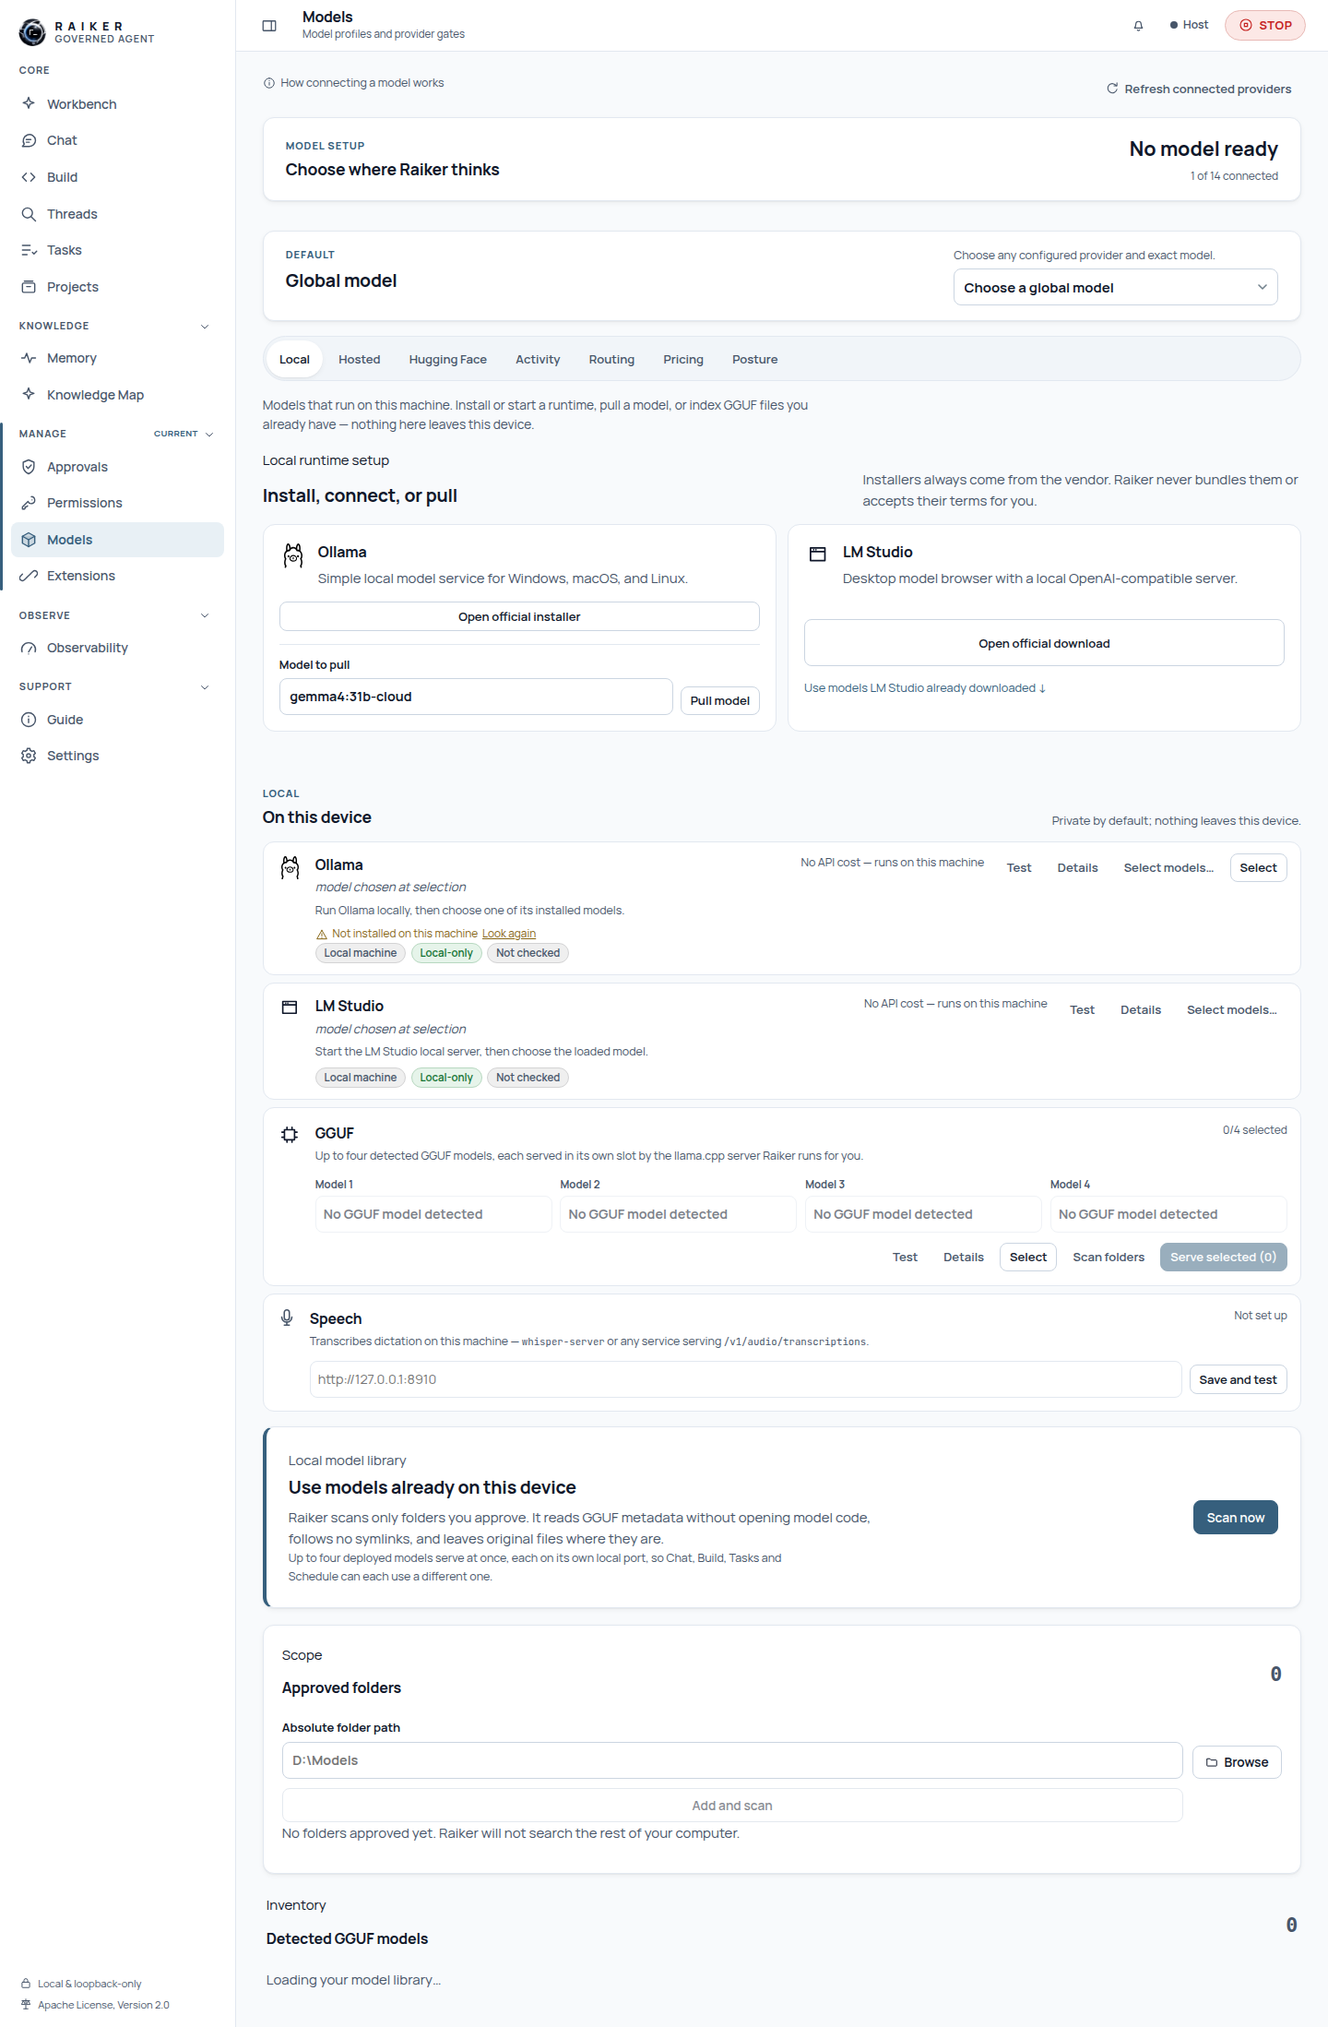
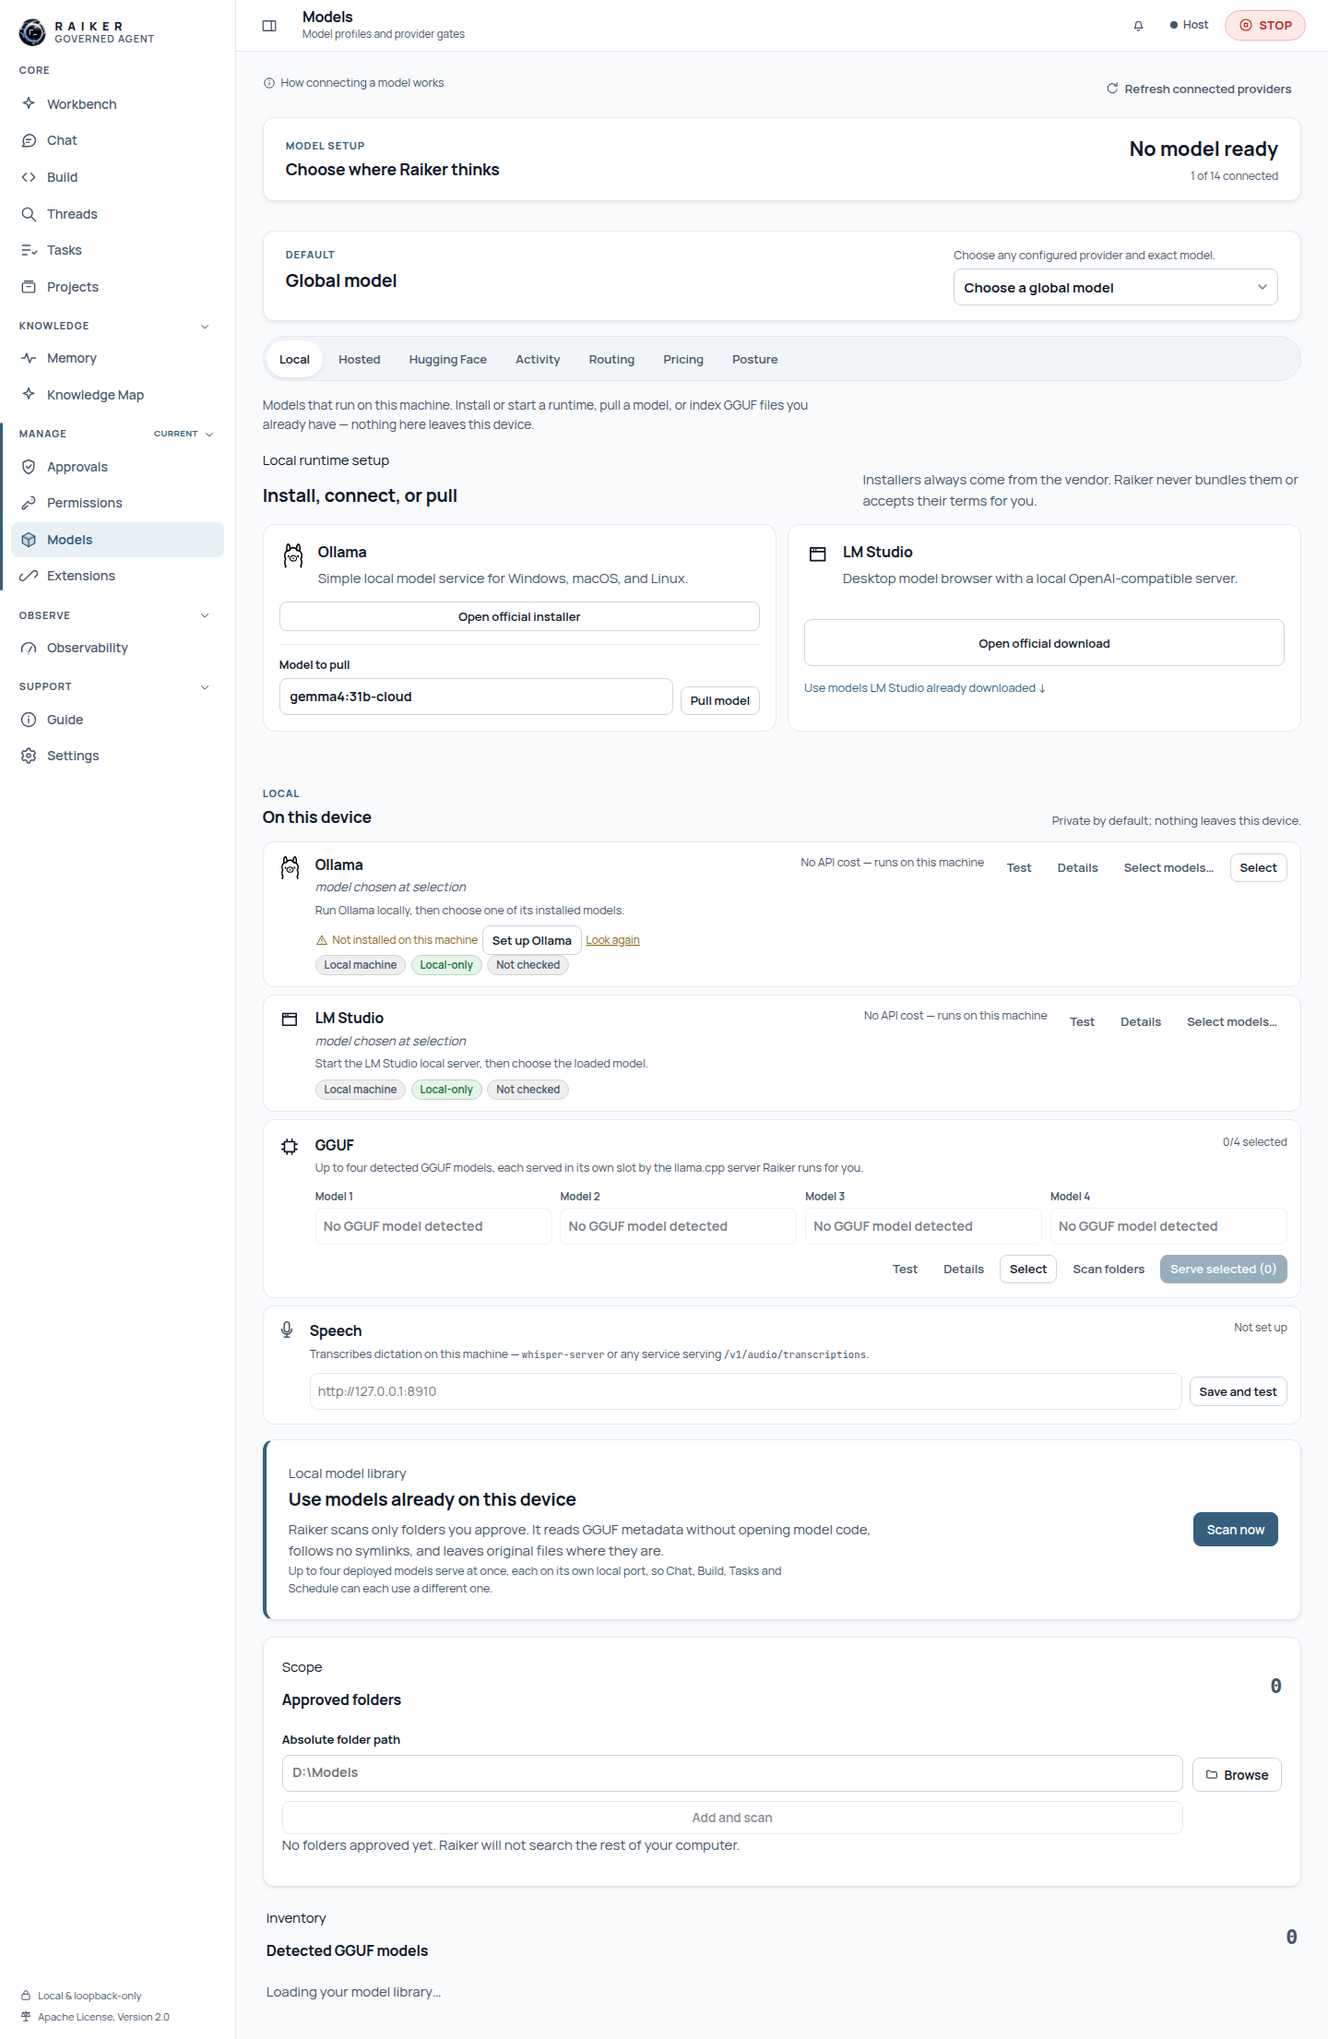
Saying it is missing is half an answer; offer to set it up
BUG-270 gave Raiker a detector, so a provider card can say "Not installed on
this machine". That left the owner to find the install panel further up the page
and work out which of its cards matched the row that had just told them.

The row offers it: **Set up Ollama**, opening that vendor's own reviewed
download. It is the same governed path the install panel takes rather than a
second one — extracted so the `https://` check on the plan lives in one place,
since that is the line here that could matter and two copies is one that drifts.

Called "Set up", not "Install": Raiker opened a download, and whether the owner
ran it is theirs to say. **Look again** stays beside it as how they say so. A
provider with no reviewed source — MLX ships its own toolchain, vLLM is a Python
package — gets no button rather than one that cannot work.

Claude-Session: https://claude.ai/code/session_016YA3n1hhkEFz7VCnfQ7Nbs

diff --git a/apps/web/src/lib/views/ModelsView.svelte b/apps/web/src/lib/views/ModelsView.svelte
@@ -25,6 +25,7 @@
   import { modelName } from "../modelPresentation";
   import { readinessLabel, UNPINNED_MODEL } from "../modelReadinessLabels";
   import { isChoosableModel } from "../modelReadiness.svelte";
+  import { installerRuntimeFor, openRuntimeInstaller } from "../runtimeInstall";
   import { setModels } from "../models.svelte";
   import LocalLibraryPanel from "./models/LocalLibraryPanel.svelte";
   import HuggingFacePanel from "./models/HuggingFacePanel.svelte";
@@ -299,6 +300,9 @@
   // saying it is missing. One flag for the whole view: detection is a single
   // pass over every runtime, not a per-provider operation.
   let detecting = $state(false);
+  // Which provider's installer is being opened, and what to say afterwards.
+  let installing = $state<string | null>(null);
+  let installNotice = $state<string | null>(null);
   let detailsFor = $state<ModelProfile | null>(null);
   // Governed refusals are policy outcomes, not faults. Hold the reason code so
   // the dialog can render the control that unblocks it instead of a bare code.
@@ -479,11 +483,38 @@
     return profile.model !== UNPINNED_MODEL && profile.configured !== false;
   }
 
+  /**
+   * BUG-270 — offer the setup, rather than only reporting its absence.
+   *
+   * "Not installed on this machine" is a fact and half an answer: the owner
+   * then had to find the install panel further up the page and work out which
+   * of its cards matched the row that told them. This is the same governed
+   * vendor path that panel takes, offered where the absence is stated.
+   */
+  async function setUpRuntime(provider: string) {
+    const runtime = installerRuntimeFor(provider);
+    if (runtime === null) return;
+    installing = provider;
+    try {
+      await openRuntimeInstaller(runtime);
+      // Deliberately not "installed". Raiker opened a download; whether the
+      // owner ran it is theirs to say, and **Look again** is how they say it.
+      installNotice = `Opened the official ${providerName(provider)} download. Install it, then choose Look again.`;
+    } catch {
+      installNotice = `Could not open the ${providerName(provider)} download.`;
+    } finally {
+      installing = null;
+    }
+  }
+
   async function redetectRuntimes() {
     detecting = true;
     try {
       await api.detectLocalRuntimes();
       await load();
+      // The instruction the notice carried has been followed, whatever the
+      // answer turned out to be.
+      installNotice = null;
     } catch {
       // A failed look leaves the last answer standing rather than replacing it
       // with a claim this call did not establish.
@@ -1200,6 +1231,20 @@
                           <p class="posture-line runtime-missing">
                             <Icon name="warning" size={14} />
                             Not installed on this machine
+                            {#if installerRuntimeFor(p.provider)}
+                              <!-- The offer, not just the finding. Raiker opens
+                                   the vendor's own download and accepts nothing
+                                   on the owner's behalf. -->
+                              <button
+                                type="button"
+                                class="btn btn-sm"
+                                onclick={() => void setUpRuntime(p.provider)}
+                                disabled={installing !== null}
+                                >{installing === p.provider
+                                  ? "Opening…"
+                                  : `Set up ${providerName(p.provider)}`}</button
+                              >
+                            {/if}
                             <button
                               type="button"
                               class="link-button"
@@ -1208,6 +1253,11 @@
                               >{detecting ? "Looking…" : "Look again"}</button
                             >
                           </p>
+                          {#if installNotice && installing === null}
+                            <p class="posture-line install-notice" role="status">
+                              {installNotice}
+                            </p>
+                          {/if}
                         {/if}
                         <div class="chips">
                           <span class="chip"
@@ -1390,6 +1440,17 @@
                         <p class="posture-line runtime-missing">
                           <Icon name="warning" size={14} />
                           Not installed on this machine
+                          {#if installerRuntimeFor(p.provider)}
+                            <button
+                              type="button"
+                              class="btn btn-sm"
+                              onclick={() => void setUpRuntime(p.provider)}
+                              disabled={installing !== null}
+                              >{installing === p.provider
+                                ? "Opening…"
+                                : `Set up ${providerName(p.provider)}`}</button
+                            >
+                          {/if}
                           <button
                             type="button"
                             class="link-button"
@@ -1398,6 +1459,11 @@
                             >{detecting ? "Looking…" : "Look again"}</button
                           >
                         </p>
+                        {#if installNotice && installing === null}
+                          <p class="posture-line install-notice" role="status">
+                            {installNotice}
+                          </p>
+                        {/if}
                       {/if}
                       <!-- Shown only where there is something to report: a
                            local runtime that cannot bill and a provider with no
@@ -2229,6 +2295,9 @@
   .runtime-missing .link-button:disabled {
     cursor: default;
     opacity: 0.6;
+  }
+  .install-notice {
+    color: var(--text-2);
   }
   .details-actions {
     display: flex;

diff --git a/apps/web/src/lib/views/ModelsView.test.ts b/apps/web/src/lib/views/ModelsView.test.ts
@@ -93,6 +93,114 @@ describe("BUG-270 — a card never claims a runtime that is not here", () => {
     );
   });
 
+  it("offers to set the runtime up, not just to look again", async () => {
+    // Reporting the absence was half an answer: the owner then had to find the
+    // install panel further up the page and match its cards to the row that
+    // told them.
+    const mock = stubFetch({
+      "GET /api/models": models({
+        profiles: [
+          profile({
+            profile_id: "ollama-local-openai-compatible",
+            provider: "ollama",
+            model: "gemma4:31b-cloud",
+            configured: false,
+            provider_detected: false,
+          }),
+        ],
+        usable_provider_count: 0,
+      }),
+      "POST /api/model-operations/preview": {
+        runtime: "ollama",
+        action: "download_official_installer",
+        source_url: "https://ollama.com/download",
+        argv: [],
+        requires_elevation: false,
+        terms_url: "https://github.com/ollama/ollama/blob/main/LICENSE",
+        redistribution: false,
+      },
+    });
+    const open = vi.fn();
+    vi.stubGlobal("open", open);
+    render(ModelsView, { tab: "local" });
+
+    await fireEvent.click(await screen.findByRole("button", { name: "Set up Ollama" }));
+
+    await waitFor(() =>
+      expect(mock).toHaveBeenCalledWith(
+        "/api/model-operations/preview",
+        expect.objectContaining({ method: "POST" }),
+      ),
+    );
+    // The vendor's own download, in a new tab, with the opener severed.
+    await waitFor(() =>
+      expect(open).toHaveBeenCalledWith(
+        "https://ollama.com/download",
+        "_blank",
+        "noopener,noreferrer",
+      ),
+    );
+    // Not "installed": Raiker opened a download, and whether it was run is the
+    // owner's to say.
+    expect(await screen.findByText(/Install it, then choose Look again/)).toBeTruthy();
+  });
+
+  it("refuses a plan that does not name an https source", async () => {
+    stubFetch({
+      "GET /api/models": models({
+        profiles: [
+          profile({
+            profile_id: "ollama-local-openai-compatible",
+            provider: "ollama",
+            model: "gemma4:31b-cloud",
+            configured: false,
+            provider_detected: false,
+          }),
+        ],
+      }),
+      "POST /api/model-operations/preview": {
+        runtime: "ollama",
+        action: "download_official_installer",
+        source_url: "http://ollama.com/download",
+        argv: [],
+        requires_elevation: false,
+        terms_url: "",
+        redistribution: false,
+      },
+    });
+    const open = vi.fn();
+    vi.stubGlobal("open", open);
+    render(ModelsView, { tab: "local" });
+
+    await fireEvent.click(await screen.findByRole("button", { name: "Set up Ollama" }));
+
+    expect(await screen.findByText(/Could not open the Ollama download/)).toBeTruthy();
+    expect(open).not.toHaveBeenCalled();
+  });
+
+  it("offers no setup for a runtime with no reviewed vendor source", async () => {
+    // vLLM is a Python package and MLX ships with its own toolchain, so
+    // Raiker has no reviewed vendor download for either. A button here would
+    // be one that cannot work.
+    stubFetch({
+      "GET /api/models": models({
+        profiles: [
+          profile({
+            profile_id: "vllm-local",
+            provider: "vllm",
+            model: "served-model",
+            configured: false,
+            provider_detected: false,
+          }),
+        ],
+      }),
+    });
+    render(ModelsView, { tab: "local" });
+
+    expect(await screen.findByText(/Not installed on this machine/)).toBeTruthy();
+    expect(screen.queryByRole("button", { name: /^Set up / })).toBeNull();
+  });
+
   it("says nothing about a machine nothing has looked at", async () => {
     // `provider_detected` absent means either no detector ran or the profile
     // does not depend on a local runtime. Neither licenses claiming an absence.

diff --git a/apps/web/src/lib/runtimeInstall.ts b/apps/web/src/lib/runtimeInstall.ts
@@ -1,0 +1,55 @@
+/**
+ * Opening a local runtime's official installer, from one place.
+ *
+ * BUG-270 gave Raiker a detector for the runtimes a profile depends on, so a
+ * provider card can now say "Not installed on this machine". Saying it is only
+ * half of an answer: the owner then has to find the install panel further up
+ * the page and work out which card corresponds to the row that told them. The
+ * row offers the setup itself, and this is the path it and the install panel
+ * both take.
+ *
+ * **The `https://` check is the reason this is shared rather than copied.** The
+ * plan comes from the server, and `window.open` on whatever it returns is the
+ * one line here that could matter; two copies of it is one copy that can drift.
+ * The scheme is checked at the point of use, not at the point of fetch, so no
+ * caller can bypass it by holding a plan.
+ *
+ * Nothing is downloaded or executed by Raiker: the plan names a vendor URL,
+ * this opens it, and the owner accepts that vendor's terms themselves.
+ */
+import { api } from "./api";
+import type { RuntimeInstallPlan } from "./apiTypes";
+
+/**
+ * Which runtime installer a profile's provider needs, or absent when that
+ * provider has none.
+ *
+ * The keys are the `provider` field a model profile carries and the values are
+ * the runtime ids `RuntimeInstallerRegistry` knows. A provider missing here is
+ * one Raiker has no reviewed vendor source for — MLX ships with its own
+ * toolchain, vLLM is a Python package — so no setup is offered for it rather
+ * than a button that would fail.
+ */
+export const INSTALLER_RUNTIME_BY_PROVIDER: Record<string, string> = {
+  ollama: "ollama",
+  "llama.cpp": "llama.cpp",
+  "lm-studio": "lm-studio-desktop",
+};
+
+/** The runtime installer for `provider`, or null when there is none. */
+export function installerRuntimeFor(provider: string): string | null {
+  return INSTALLER_RUNTIME_BY_PROVIDER[provider] ?? null;
+}
+
+/**
+ * Open the reviewed vendor download for `runtime` in a new tab.
+ *
+ * Throws when the server's plan does not name an `https://` source, so a
+ * caller's catch is what the owner sees rather than a navigation nobody
+ * checked.
+ */
+export async function openRuntimeInstaller(runtime: string): Promise<void> {
+  const plan = (await api.previewModelOperation("install", runtime)) as RuntimeInstallPlan;
+  if (!plan.source_url.startsWith("https://")) throw new Error("unsafe source");
+  window.open(plan.source_url, "_blank", "noopener,noreferrer");
+}

diff --git a/apps/web/src/lib/views/models/ProvidersPanel.svelte b/apps/web/src/lib/views/models/ProvidersPanel.svelte
@@ -1,7 +1,7 @@
 <script lang="ts">
   import { onDestroy } from "svelte";
   import { api } from "../../api";
-  import type { RuntimeInstallPlan } from "../../apiTypes";
+  import { openRuntimeInstaller } from "../../runtimeInstall";
   import ProviderLogo from "../../components/ProviderLogo.svelte";
   let {
     onCatalogueChanged,
@@ -49,13 +49,9 @@
     busy = runtime;
     error = null;
     try {
-      const plan = (await api.previewModelOperation(
-        "install",
-        runtime,
-      )) as RuntimeInstallPlan;
-      if (!plan.source_url.startsWith("https://"))
-        throw new Error("unsafe source");
-      window.open(plan.source_url, "_blank", "noopener,noreferrer");
+      // BUG-270 — the provider row offers this too, so the scheme check that
+      // guards `window.open` lives in one place rather than in two that drift.
+      await openRuntimeInstaller(runtime);
       message = `Opened the official ${runtime === "ollama" ? "Ollama" : "LM Studio"} download. Return here after installation.`;
     } catch {
       error = "Could not open the reviewed vendor download.";

diff --git a/apps/web/e2e/priority-round-2026-09-03-live.spec.ts b/apps/web/e2e/priority-round-2026-09-03-live.spec.ts
@@ -58,6 +58,10 @@ test.describe("the 2026-09-03 priority round", () => {
     });
     await expect(page.getByText("Gemma 4:31B Cloud", { exact: true })).toHaveCount(0);
     await expect(page.getByText("Not installed on this machine").first()).toBeVisible();
+    // Stating the absence is half an answer. The row offers the setup itself,
+    // rather than leaving the owner to find the install panel further up the
+    // page and match its cards to the row that told them.
+    await expect(page.getByRole("button", { name: "Set up Ollama" })).toBeVisible();
     // The other half: four empty llama.cpp slots used to count as models set up.
     await expect(page.getByText(/models set up/)).toHaveCount(0);
     await capture(page, join(SHOTS, "fixed-365-models-honest-meter-live.png"));

diff --git a/docs/plans/FIXED_ITEMS.md b/docs/plans/FIXED_ITEMS.md
@@ -15570,9 +15570,18 @@ and asserts none of them names the model.
 
 **User-interface outcome.** A fresh install does not name a model that is not
 installed — not in the setup meter, not in the Global model control, not in
-either composer's model chip. The provider card says **"Not installed on this
-machine"** with a **Look again**, and says nothing at all when detection has no
-answer.
+either composer's model chip.
+
+**And it offers the fix rather than only the finding.** A row whose runtime was
+not found says **"Not installed on this machine"** and carries **Set up
+&lt;Provider&gt;** beside it, which opens that vendor's own reviewed download —
+the same governed path the install panel above it takes, now shared so the
+`https://` check on the plan lives in one place instead of two. It is deliberately
+not called "Install": Raiker opened a download, and whether the owner ran it is
+theirs to say, which is what **Look again** is for. A provider Raiker has no
+reviewed source for — MLX ships its own toolchain, vLLM is a Python package —
+gets no button rather than one that cannot work. A runtime detection has no
+answer about says nothing at all.
 
 ---
 

diff --git a/docs/guide/connecting-a-model.md b/docs/guide/connecting-a-model.md
@@ -64,8 +64,14 @@ software you have not installed.
 A local provider card says **"Not installed on this machine"** when Raiker looked
 and did not find it, and says nothing when it has not looked. Detection is a
 lookup of your `PATH` — never a connection to anything — and the answer is
-remembered, so opening Models does not re-scan. **Look again** on the card is
-there for the minute after you install something.
+remembered, so opening Models does not re-scan.
+
+The card offers the fix rather than leaving you to find it: **Set up
+&lt;Provider&gt;** opens that vendor's own download page. Raiker does not install
+anything, bundle an installer, or accept anyone's terms for you — it opens the
+page, you decide. When you have installed it, **Look again** re-runs the lookup
+and the card stops saying it is missing. A runtime Raiker has no reviewed source
+for offers no button rather than one that cannot work.
 
 ## Local discovery and acquisition
 
